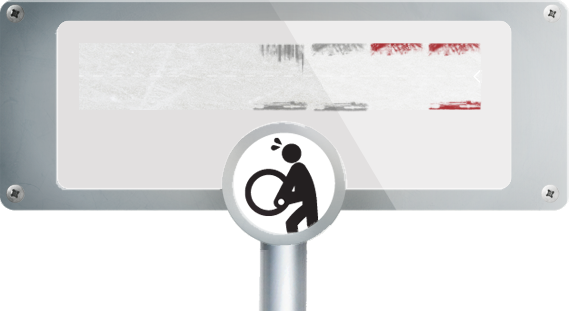
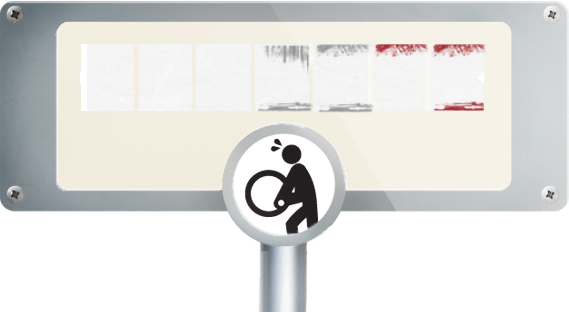
updated the interface added shadow effect

diff --git a/client/src/asa/client/GameState.java b/client/src/asa/client/GameState.java
@@ -10,6 +10,7 @@ import java.util.Timer;
 import java.util.TimerTask;
 import org.apache.log4j.Logger;
 import org.lwjgl.util.Dimension;
+import org.newdawn.slick.Animation;
 import org.newdawn.slick.GameContainer;
 import org.newdawn.slick.Graphics;
 import org.newdawn.slick.Image;
@@ -33,6 +34,7 @@ public class GameState extends ArduinoGameState {
 	Image tandwiel1;
 	Image tandwiel2;
 	Image background;
+	Image wires;
 	Image tandwiel3;
 	Image tandwiel4;
 	Image background_spinner;
@@ -50,11 +52,13 @@ public class GameState extends ArduinoGameState {
 	Image spinner2;
 	Image spinner3;
 	Image linker_kastje_boven;
+	Image voortgangsbalk;
+	Image player_voortgang;
+	Image device_voortgang;
 	
 	Image red_number;
 	Image black_number;
-	
-	Image clockImage;
+
 	Animation clock;
 
 	int image = 3;
@@ -63,6 +67,9 @@ public class GameState extends ArduinoGameState {
 	int selectionDegrees = 45;
 	int selectedOption = 0;
 	int oldSelectedOption = 0;
+	float player_voortgang_location = 0;
+	float device_voortgang_location = 0;
+	int voortgangs_start_location = 0;
 	
 	int[] playerPositions = new int[7];
 	int[] devicePositions = new int[7];
@@ -92,6 +99,7 @@ public class GameState extends ArduinoGameState {
 	public void init(GameContainer gameContainer, StateBasedGame stateBasedGame) throws SlickException {
 		center = new Dimension(AsaGame.SOURCE_RESOLUTION.width / 2 - 100, AsaGame.SOURCE_RESOLUTION.height / 2);
 		background = new Image(Resource.getPath(Resource.GAME_BACKGROUND));
+		wires = new Image(Resource.getPath(Resource.WIRES));
 		tandwiel1 = new Image(Resource.getPath(Resource.TANDWIEL5));
 		tandwiel2 = new Image(Resource.getPath(Resource.TANDWIEL6));
 		tandwiel3 = new Image(Resource.getPath(Resource.TANDWIEL6));
@@ -110,43 +118,71 @@ public class GameState extends ArduinoGameState {
 		spinner2 = new Image(Resource.getPath(Resource.GAME_SPINNER));
 		spinner3 = new Image(Resource.getPath(Resource.GAME_SPINNER));
 		
+		voortgangsbalk = new Image(Resource.getPath(Resource.VOORTGANGS_BALK));
+		player_voortgang = new Image(Resource.getPath(Resource.PLAYER_));
+		device_voortgang = new Image(Resource.getPath(Resource.DEVICE_));
+		voortgangs_start_location = voortgangsbalk.getHeight()-50;
+		player_voortgang_location = voortgangsbalk.getHeight()-50;
+		device_voortgang_location = voortgangsbalk.getHeight()-50;
+		
 		red_number = new Image(Resource.getPath(Resource.NUMBERS_RED));
 		black_number = new Image(Resource.getPath(Resource.NUMBERS_BLACK));
 		random = new Random();
-		
+		clock = new Animation();
+		clock.setLooping(false);
+		for(int i = 0; i < 601; i++){
+			if((i+"").length() == 1){
+				clock.addFrame(new Image(Resource.getPath("KLOK/Comp 1_0000" + i + ".png")), 20000/601);
+			} else if((i+"").length() == 2){
+				clock.addFrame(new Image(Resource.getPath("KLOK/Comp 1_000" + i + ".png")), 20000/601);
+			} else{
+				clock.addFrame(new Image(Resource.getPath("KLOK/Comp 1_00" + i + ".png")), 20000/601);
+			}
+		}
+		clock.stop();
 		resetPositions();
 	}
 
 	@Override
 	public void render(GameContainer gameContainer, StateBasedGame stateBasedGame, Graphics graphics) throws SlickException {
-		black_number.draw(linker_kastje.getWidth()/2+linker_kastje.getWidth()/6, playerPositions[0]);
-		black_number.draw(linker_kastje.getWidth()/2+linker_kastje.getWidth()/6+((black_number.getWidth()+4)), playerPositions[1]);
-		black_number.draw(linker_kastje.getWidth()/2+linker_kastje.getWidth()/6+((black_number.getWidth()+4)*2), playerPositions[2]);
-		black_number.draw(linker_kastje.getWidth()/2+linker_kastje.getWidth()/6+((black_number.getWidth()+4)*3), playerPositions[3]);
-		black_number.draw(linker_kastje.getWidth()/2+linker_kastje.getWidth()/6+((black_number.getWidth()+4)*4), playerPositions[4]);
-		red_number.draw(linker_kastje.getWidth()/2+linker_kastje.getWidth()/6+((black_number.getWidth()+4)*5), playerPositions[5]);
-		red_number.draw(linker_kastje.getWidth()/2+linker_kastje.getWidth()/6+((black_number.getWidth()+4)*6), playerPositions[6]);
-		black_number.draw(center.getWidth()*2 - rechter_kastje.getWidth()+linker_kastje.getWidth()/6-15, devicePositions[0]);
-		black_number.draw(center.getWidth()*2 - rechter_kastje.getWidth()+linker_kastje.getWidth()/6+((black_number.getWidth())-5), devicePositions[1]);
-		black_number.draw(center.getWidth()*2 - rechter_kastje.getWidth()+linker_kastje.getWidth()/6+((black_number.getWidth())*2), devicePositions[2]);
-		black_number.draw(center.getWidth()*2 - rechter_kastje.getWidth()+linker_kastje.getWidth()/6+((black_number.getWidth())*3+5), devicePositions[3]);
-		black_number.draw(center.getWidth()*2 - rechter_kastje.getWidth()+linker_kastje.getWidth()/6+((black_number.getWidth())*4+15), devicePositions[4]);
-		red_number.draw(center.getWidth()*2 - rechter_kastje.getWidth()+linker_kastje.getWidth()/6+((black_number.getWidth())*5+22), devicePositions[5]);
-		red_number.draw(center.getWidth()*2 - rechter_kastje.getWidth()+linker_kastje.getWidth()/6+((black_number.getWidth())*6+30), devicePositions[6]);
 		background.draw(0, 0);
+		wires.draw(center.getWidth()*2-wires.getWidth(), 0);
 		tandwiel1.draw(-tandwiel1.getWidth() / 2, AsaGame.SOURCE_RESOLUTION.height / 2 - tandwiel1.getHeight() / 2);
 		tandwiel2.draw(center.getWidth()/2-tandwiel2.getWidth()/2-tandwiel2.getWidth()/4, center.getHeight() / 2 - tandwiel2.getHeight()/2);
+		
+		touwtjes.draw(linker_kastje.getWidth()/2+70+linker_kastje.getWidth()/16, center.getHeight()*2 - linker_kastje.getHeight()-touwtjes.getHeight());
+		spinner1.draw(linker_kastje.getWidth()/2+70+linker_kastje.getWidth()/16, center.getHeight()*2 - linker_kastje.getHeight()-spinner1.getHeight()+spinner1.getHeight()/3);
+		spinner2.draw(linker_kastje.getWidth()/2+220+linker_kastje.getWidth()/16, center.getHeight()*2 - linker_kastje.getHeight()-spinner2.getHeight()+spinner1.getHeight()/3);
+		spinner3.draw(linker_kastje.getWidth()/2+363+linker_kastje.getWidth()/16, center.getHeight()*2 - linker_kastje.getHeight()-spinner3.getHeight()+spinner1.getHeight()/3);
+		black_number.getSubImage(0, startposition-playerPositions[0], black_number.getWidth(), 73).draw(linker_kastje.getWidth()/2+linker_kastje.getWidth()/16+82, startposition);
+		black_number.getSubImage(0, startposition-playerPositions[1], black_number.getWidth(), 73).draw(linker_kastje.getWidth()/2+linker_kastje.getWidth()/16+85+black_number.getWidth()+4, startposition);
+		black_number.getSubImage(0, startposition-playerPositions[2], black_number.getWidth(), 73).draw(linker_kastje.getWidth()/2+linker_kastje.getWidth()/16+85+black_number.getWidth()*2+11, startposition);
+		black_number.getSubImage(0, startposition-playerPositions[3], black_number.getWidth(), 73).draw(linker_kastje.getWidth()/2+linker_kastje.getWidth()/16+85+black_number.getWidth()*3+18, startposition);
+		black_number.getSubImage(0, startposition-playerPositions[4], black_number.getWidth(), 73).draw(linker_kastje.getWidth()/2+linker_kastje.getWidth()/16+85+black_number.getWidth()*4+26, startposition);
+		red_number.getSubImage(0, startposition-playerPositions[5], black_number.getWidth(), 73).draw(linker_kastje.getWidth()/2+linker_kastje.getWidth()/16+85+black_number.getWidth()*5+33, startposition);
+		red_number.getSubImage(0, startposition-playerPositions[6], black_number.getWidth(), 73).draw(linker_kastje.getWidth()/2+linker_kastje.getWidth()/16+85+black_number.getWidth()*6+40, startposition);
+		linker_kastje.draw(linker_kastje.getWidth()/2+linker_kastje.getWidth()/16, center.getHeight()*2 - linker_kastje.getHeight());
+		linker_kastje_boven.draw(360, center.getHeight()*2 - linker_kastje.getHeight()-touwtjes.getHeight()-linker_kastje_boven.getHeight());
+		
+		clock.draw(linker_kastje.getWidth()/2+linker_kastje.getWidth()/16+linker_kastje.getWidth(), center.getHeight()*2 - linker_kastje.getHeight()-linker_kastje.getHeight()/3);
+		
+		black_number.getSubImage(0, startposition-devicePositions[0], black_number.getWidth(), 73).draw(center.getWidth()*2 - rechter_kastje.getWidth()+rechter_kastje.getWidth()/6+75, startposition);
+		black_number.getSubImage(0, startposition-devicePositions[1], black_number.getWidth(), 73).draw(center.getWidth()*2 - rechter_kastje.getWidth()+rechter_kastje.getWidth()/6+78+black_number.getWidth()+4, startposition);
+		black_number.getSubImage(0, startposition-devicePositions[2], black_number.getWidth(), 73).draw(center.getWidth()*2 - rechter_kastje.getWidth()+rechter_kastje.getWidth()/6+78+black_number.getWidth()*2+11, startposition);
+		black_number.getSubImage(0, startposition-devicePositions[3], black_number.getWidth(), 73).draw(center.getWidth()*2 - rechter_kastje.getWidth()+rechter_kastje.getWidth()/6+78+black_number.getWidth()*3+19, startposition);
+		black_number.getSubImage(0, startposition-devicePositions[4], black_number.getWidth(), 73).draw(center.getWidth()*2 - rechter_kastje.getWidth()+rechter_kastje.getWidth()/6+78+black_number.getWidth()*4+27, startposition);
+		red_number.getSubImage(0, startposition-devicePositions[5], black_number.getWidth(), 73).draw(center.getWidth()*2 - rechter_kastje.getWidth()+rechter_kastje.getWidth()/6+78+black_number.getWidth()*5+34, startposition);
+		red_number.getSubImage(0, startposition-devicePositions[6], black_number.getWidth(), 73).draw(center.getWidth()*2 - rechter_kastje.getWidth()+rechter_kastje.getWidth()/6+78+black_number.getWidth()*6+41, startposition);
+		rechter_kastje.draw(center.getWidth()*2 - rechter_kastje.getWidth()+rechter_kastje.getWidth()/6-5, center.getHeight()*2 - rechter_kastje.getHeight());
+		device_icon.draw(center.getWidth()*2 - rechter_kastje.getWidth()/2- device_icon.getWidth()/2+rechter_kastje.getWidth()/6-5, center.getHeight()*2- rechter_kastje.getHeight()/2-rechter_kastje.getHeight()/16);
+		
+		voortgangsbalk.draw(center.getWidth()+voortgangsbalk.getWidth()*2+voortgangsbalk.getWidth()/4, 10);
+		player_voortgang.draw(center.getWidth()+voortgangsbalk.getWidth()*2+voortgangsbalk.getWidth()/4-player_voortgang.getWidth(), player_voortgang_location);
+		device_voortgang.draw(center.getWidth()+voortgangsbalk.getWidth()*2+voortgangsbalk.getWidth()/4+voortgangsbalk.getWidth(), device_voortgang_location);
+		
 		if(countdownActive){
-			count_down.draw(center.getWidth() + (count_down.getWidth()), center.getHeight() - (count_down.getHeight() / 2));
+			count_down.draw(linker_kastje.getWidth()/2+linker_kastje.getWidth()/16+linker_kastje.getWidth(), center.getHeight()*2 - linker_kastje.getHeight()-linker_kastje.getHeight()/3);
 		}
-		touwtjes.draw(linker_kastje.getWidth()/2+75, center.getHeight()*2 - linker_kastje.getHeight()-touwtjes.getHeight());
-		spinner1.draw(linker_kastje.getWidth()/2+75, center.getHeight()*2 - linker_kastje.getHeight()-spinner1.getHeight()+spinner1.getHeight()/3);
-		spinner2.draw(linker_kastje.getWidth()/2+225, center.getHeight()*2 - linker_kastje.getHeight()-spinner2.getHeight()+spinner1.getHeight()/3);
-		spinner3.draw(linker_kastje.getWidth()/2+368 , center.getHeight()*2 - linker_kastje.getHeight()-spinner3.getHeight()+spinner1.getHeight()/3);
-		linker_kastje.draw(linker_kastje.getWidth()/2, center.getHeight()*2 - linker_kastje.getHeight());
-		linker_kastje_boven.draw(350, center.getHeight()*2 - linker_kastje.getHeight()-touwtjes.getHeight()-linker_kastje_boven.getHeight());
-		rechter_kastje.draw(center.getWidth()*2 - rechter_kastje.getWidth(), center.getHeight()*2 - rechter_kastje.getHeight());
-		device_icon.draw(center.getWidth()*2 - rechter_kastje.getWidth()/2- device_icon.getWidth()/2, center.getHeight()*2- rechter_kastje.getHeight()/2-rechter_kastje.getHeight()/16);
 	}
 	
 	@Override
@@ -186,6 +222,8 @@ public class GameState extends ArduinoGameState {
 				} catch(Exception e){
 				}
 			}
+			device_voortgang_location = voortgangs_start_location - (float)(deviceScore/((device.getWattTotal()/device.getDivideBy()))*20);
+			player_voortgang_location = voortgangs_start_location - (float)(score/((device.getWattTotal()/device.getDivideBy()))*20);
 		}
 	}
 	
@@ -208,6 +246,10 @@ public class GameState extends ArduinoGameState {
 		countdownActive = true;
 		score = 0;
 		deviceScore = 0;
+		clock.restart();
+		clock.stop();
+		player_voortgang_location = voortgangsbalk.getHeight()-50;
+		device_voortgang_location = voortgangsbalk.getHeight()-50;
 		resetPositions();
 		try {
 			count_down = new Image(Resource.getPath(Resource.COUNT_DOUWN3));
@@ -270,6 +312,7 @@ public class GameState extends ArduinoGameState {
 			@Override
 			public void run() {
 				gamestarted = true;
+				clock.start();
 			}
 		}, 3100);
 		/**

diff --git a/client/src/asa/client/HighscoreState.java b/client/src/asa/client/HighscoreState.java
@@ -19,6 +19,8 @@ import service.Device;
 import service.Highscore;
 import asa.client.DTO.GameData;
 import asa.client.resources.Resource;
+import org.newdawn.slick.font.effects.Effect;
+import org.newdawn.slick.font.effects.ShadowEffect;
 
 public class HighscoreState extends ArduinoGameState {
 	
@@ -67,6 +69,8 @@ public class HighscoreState extends ArduinoGameState {
 	int scrollDelta;
 	int scoreHeight = (appResHeight/8);
 	int listSpeedfactor = 5;
+	
+	ShadowEffect effect;
 
 	public HighscoreState(int stateID, ServerAdapter server, GameData gameData) {
 		super(stateID);
@@ -89,6 +93,10 @@ public class HighscoreState extends ArduinoGameState {
 		background = new Image(Resource.getPath(Resource.GAME_BACKGROUND));
 		icon_background = new Image(Resource.getPath(Resource.ICON_BACKGROUND_EASY));
 		font = Resource.getFont(Resource.FONT_SANCHEZ, 30, Color.BLACK);
+		effect = new ShadowEffect();
+		effect.setColor(Color.yellow);
+		effect.setXDistance(5);
+		effect.setYDistance(5);
 	}
 
 	@Override
@@ -100,10 +108,6 @@ public class HighscoreState extends ArduinoGameState {
 		this.playerScore = gameData.getPlayerScore();
 		this.deviceScore = gameData.getDeviceScore();
 		this.device = server.getDeviceById(gameData.getDeviceId());
-		try {
-			background = new Image(Resource.getPath(device.getBackgroundUrl()));
-		} catch (SlickException ex) {
-		}
 		
 		spinnerSouth = decimalFormat.format(playerScore) + " kWh, ";
 		underSpinner = "Foto maken bij behaalde score?";
@@ -183,6 +187,7 @@ public class HighscoreState extends ArduinoGameState {
 					y = y - (float) (optionIcon.getHeight() * 1.3 / 2);
 					icon_background.draw(x, y, (float) 1.3);
 					graphics.drawString(option.getDescription(), x+icon_background.getWidth()/2 -15*(option.getDescription().length()/2), y+icon_background.getHeight()/2);
+//					effect.draw(null, null, font, null);
 				} else{
 					x = x - (float) (optionIcon.getWidth() * 1 / 2);
 					y = y - (float) (optionIcon.getHeight() * 1 / 2);

diff --git a/client/src/asa/client/resources/Resource.java b/client/src/asa/client/resources/Resource.java
@@ -58,6 +58,10 @@ public class Resource {
 	public static final String KASTJE_RECHTS = "rechterkastje.png";
 	public static final String ROPES = "touwtjes.png";
 	public static final String GAME_SPINNER = "draaispoel.png";
+	public static final String WIRES = "draden.png";
+	public static final String PLAYER_ = "voortganglinks.png";
+	public static final String DEVICE_ = "voortgangrechts.png";
+	public static final String VOORTGANGS_BALK = "voortgangsbalk.png";
 	
 	public static final String LABEL_EASY = "label_easy.png";
 	public static final String LABEL_MEDIUM = "label_medium.png";
@@ -82,6 +86,8 @@ public class Resource {
 			filepath = URLDecoder.decode(resource, "UTF-8").toString();
 		} catch (UnsupportedEncodingException ex) {
 			logger.error("Unable to locate resource " + path);
+		} catch (NullPointerException ex){
+			logger.error("NullPointer: Unable to locate resource " + RESOURCE_PATH + path);
 		}
 		return filepath;
 	}
